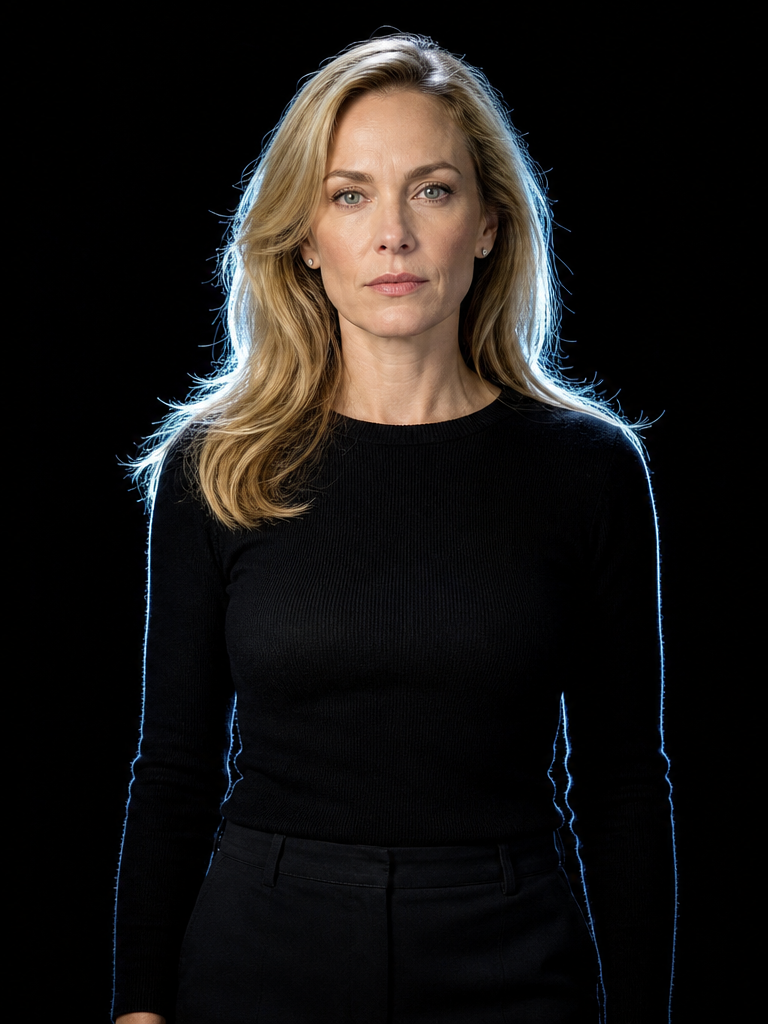
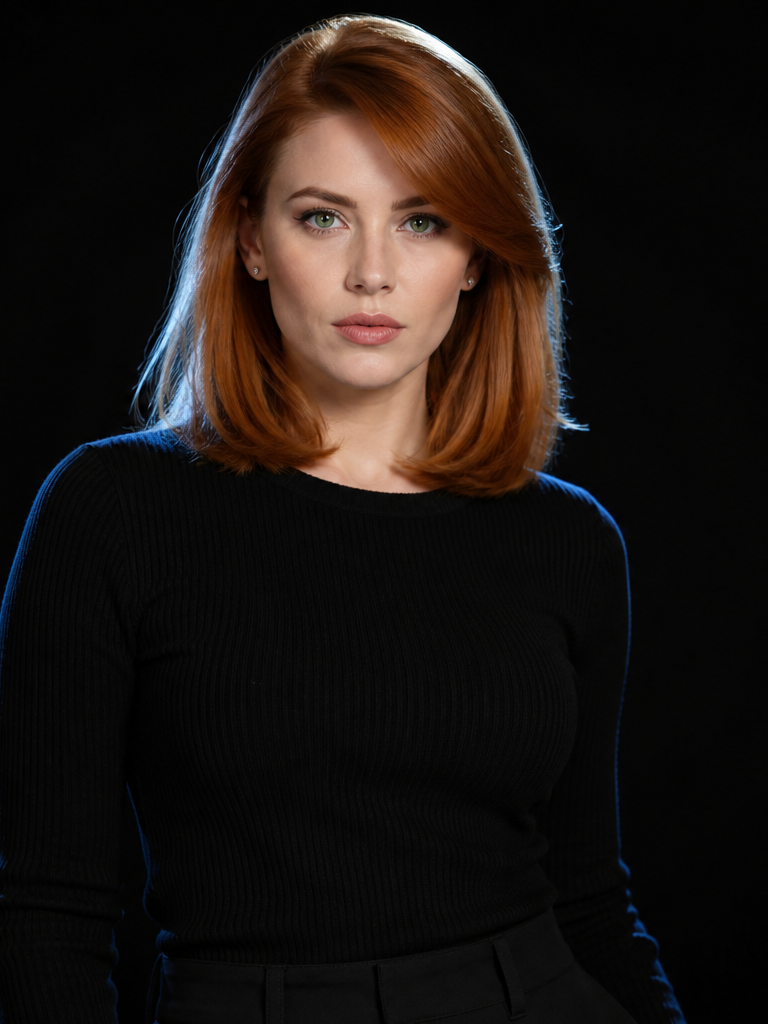
Replace Scarlett card with a red-hair studio portrait.

diff --git a/index.html b/index.html
@@ -1202,7 +1202,7 @@
       <p class="s3-head">Celebrity layers</p>
       <div class="scenario-grid" id="celeb-grid" role="listbox" aria-label="Celebrity personalities">
         <button type="button" class="scenario" role="option" data-layer="scarlett" aria-pressed="false">
-          <img class="scenario-art" src="assets/scenarios/scarlett.png?v=1" alt="" />
+          <img class="scenario-art" src="assets/scenarios/scarlett.png?v=2" alt="" />
           <span class="scenario-label"><strong>Scarlett</strong></span>
         </button>
         <button type="button" class="scenario" role="option" data-layer="keanu" aria-pressed="false">
